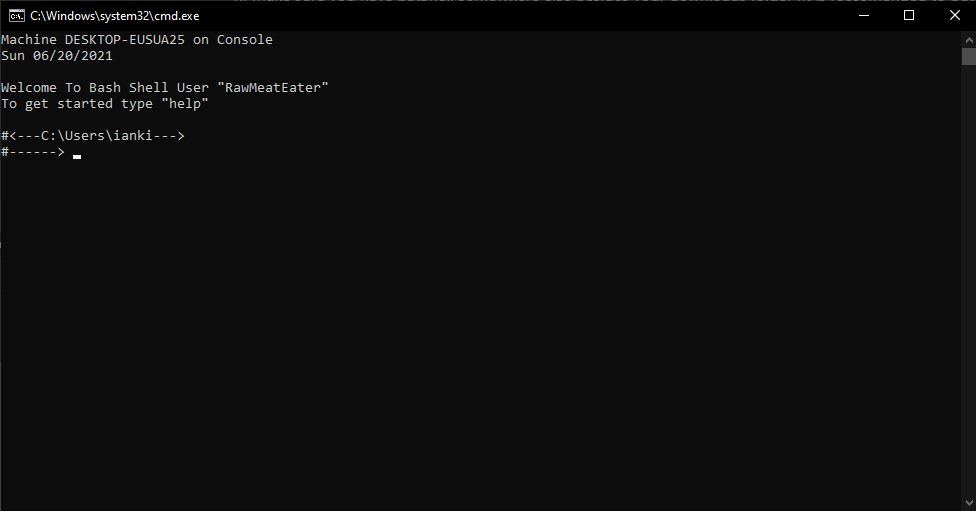
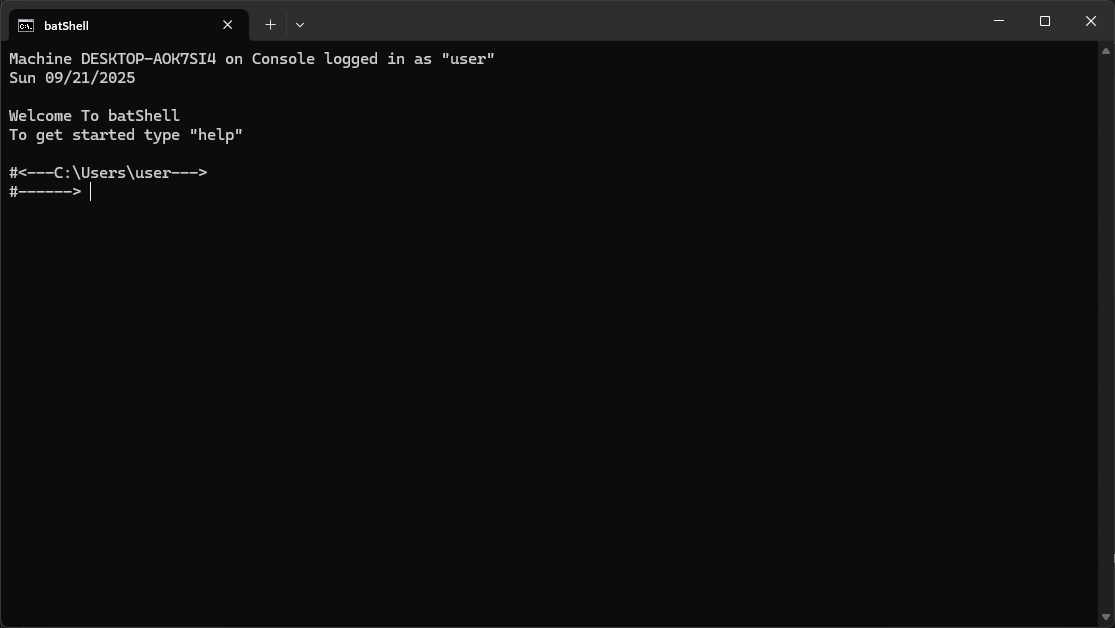
tidy up + steamcmd

Changed region(s): [[0.0, 0.0, 1.0, 0.3077], [0.0, 0.9538, 1.0, 1.0]]

diff --git a/README.md b/README.md
@@ -1,22 +1,8 @@
 # batShell
-
-### batShell is cmd but with custom easy to make commands and is fully customizable to suite your needs. You can use this to manage and launch servers, launch steam games, launch any app, make the command line look better, or even just for conviently using the command line. There will be some updates to make batShell exactly like cmd.
-
+To install batShell, enter the command `install_batShell`
 ![alt text](https://github.com/Epicminer256/batshell/raw/batshell/preview.png)
 
-## Alternitive Version of batShell
-#### If you like this experience, check out a minimal version of batShell. This version is better for server launchers and app making, or if you are having trouble running this version of batShell. https://github.com/Epicminer256/batShellBase
 
-## If you want to use batshell instead of cmd, here is how you kinda half-way install batShell
-
-
-#### 1.) Right click shell.bat and goto "Send To"
-
-#### 2.) Send it to "Desktop (create link)" and rename shortcut to batShell
-
-#### 3.) Copy the newly created link and goto "%appdata%\Microsoft\Windows\Start Menu\Programs"
-
-#### 4.) Paste it in te folder and... Done! it should pop up in your start menu. If it isnt there you might need to relogin
 
 # Documentation
 
